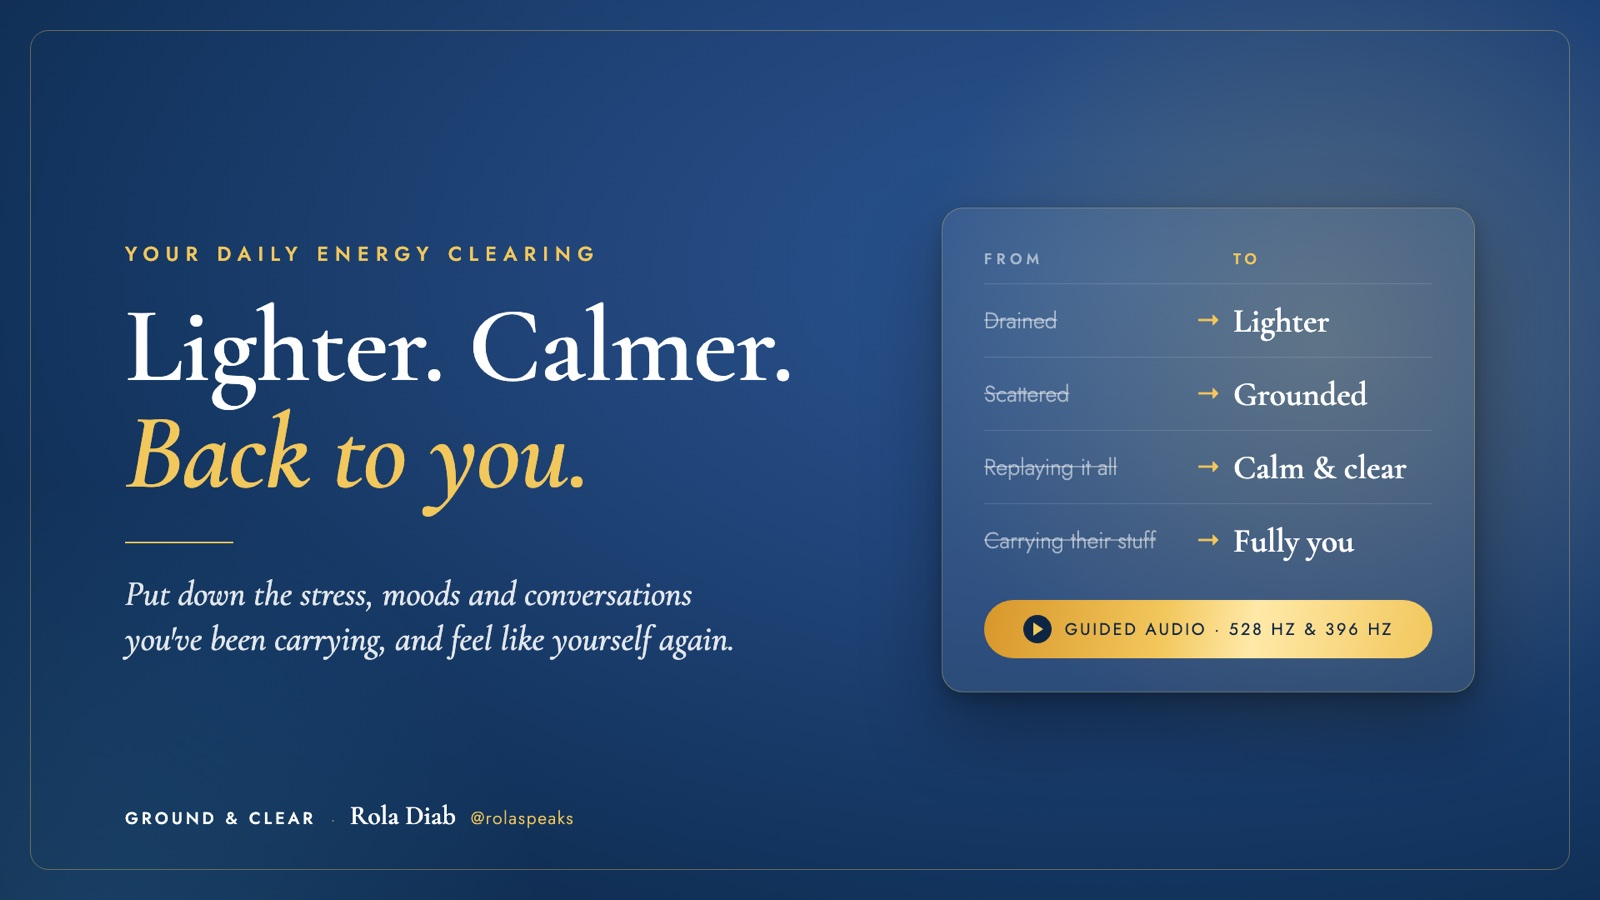
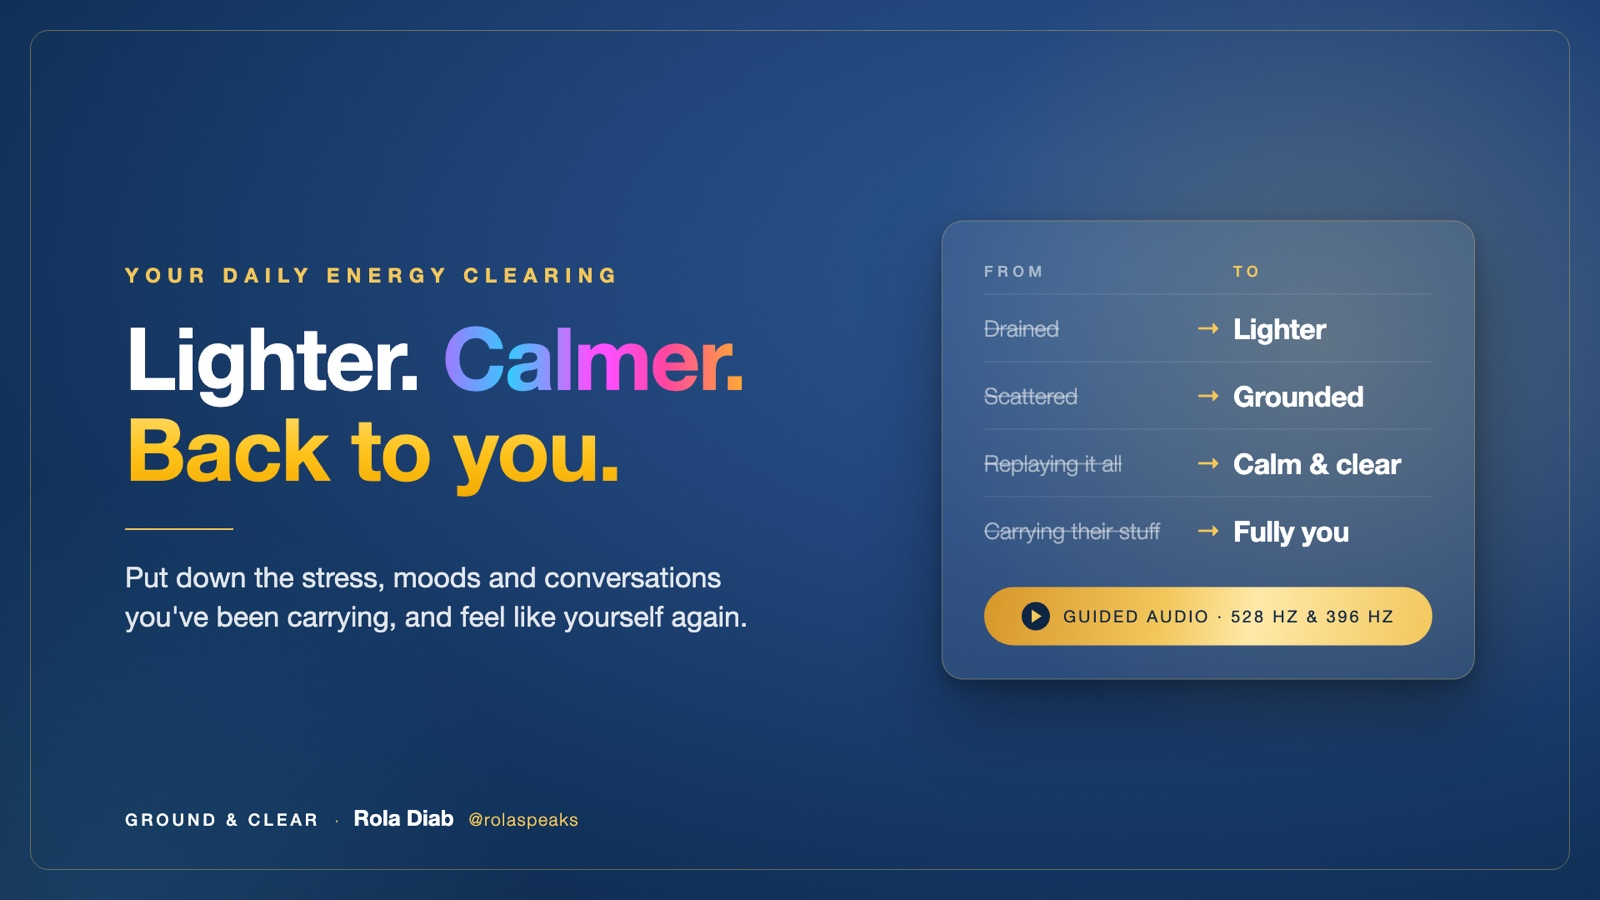
Covers: Manifesting gradient + BOND font on Ground & Clear and CLEAR Method

diff --git a/products/index.html b/products/index.html
@@ -9,7 +9,7 @@
   <meta property="og:description" content="Guided practices and tools from Rola Diab you can use today, on your own time.">
   <meta property="og:url" content="https://businessmanifesting.com/products/">
   <meta property="og:type" content="website">
-  <meta property="og:image" content="https://businessmanifesting.com/products/ground-and-clear.jpg?v=3">
+  <meta property="og:image" content="https://businessmanifesting.com/products/ground-and-clear.jpg?v=4">
   <meta name="theme-color" content="#12335C">
   <link rel="icon" href="/favicon.svg" type="image/svg+xml">
   <link rel="stylesheet" href="/styles.css?v=106">
@@ -30,7 +30,7 @@
   <section class="formats-band products-band">
     <div class="product-grid">
       <article class="product-card">
-        <img src="/products/ground-and-clear.jpg?v=3" alt="Ground and Clear: lighter, calmer, back to you" width="1600" height="900">
+        <img src="/products/ground-and-clear.jpg?v=4" alt="Ground and Clear: lighter, calmer, back to you" width="1600" height="900">
         <div class="product-body">
           <p class="num">Daily energy clearing &nbsp;·&nbsp; 15 minutes</p>
           <h3>Ground &amp; Clear</h3>
@@ -65,7 +65,7 @@
         </div>
       </article>
       <article class="product-card">
-        <img src="/products/clear-method.jpg?v=1" alt="The CLEAR Method workbook and guided audio: clear the limiting belief stuck in your body, in a single sitting" width="1600" height="900">
+        <img src="/products/clear-method.jpg?v=2" alt="The CLEAR Method workbook and guided audio: clear the limiting belief stuck in your body, in a single sitting" width="1600" height="900">
         <div class="product-body">
           <p class="num">Guided audio + workbook &nbsp;·&nbsp; one sitting</p>
           <h3>The CLEAR Method&trade;</h3>

diff --git a/links/index.html b/links/index.html
@@ -9,7 +9,7 @@
   <meta property="og:description" content="Guided practices, coaching, the Summit and more.">
   <meta property="og:url" content="https://businessmanifesting.com/links/">
   <meta property="og:type" content="website">
-  <meta property="og:image" content="https://businessmanifesting.com/products/ground-and-clear.jpg?v=3">
+  <meta property="og:image" content="https://businessmanifesting.com/products/ground-and-clear.jpg?v=4">
   <meta name="theme-color" content="#12335C">
   <link rel="icon" href="/favicon.svg" type="image/svg+xml">
   <style>
@@ -74,7 +74,7 @@
   <p class="tag">Where manifesting meets performance science. Clear your energy, own your power, and make growth <span class="shine">inevitable</span>.</p>
 
   <a class="featured" href="https://whop.com/rola-diab-218e/ground-and-clear/">
-    <img src="/products/ground-and-clear.jpg?v=3" alt="Ground and Clear: lighter, calmer, back to you" width="1600" height="900">
+    <img src="/products/ground-and-clear.jpg?v=4" alt="Ground and Clear: lighter, calmer, back to you" width="1600" height="900">
     <div class="body">
       <span class="new">New</span>
       <h2>Ground &amp; Clear</h2>
